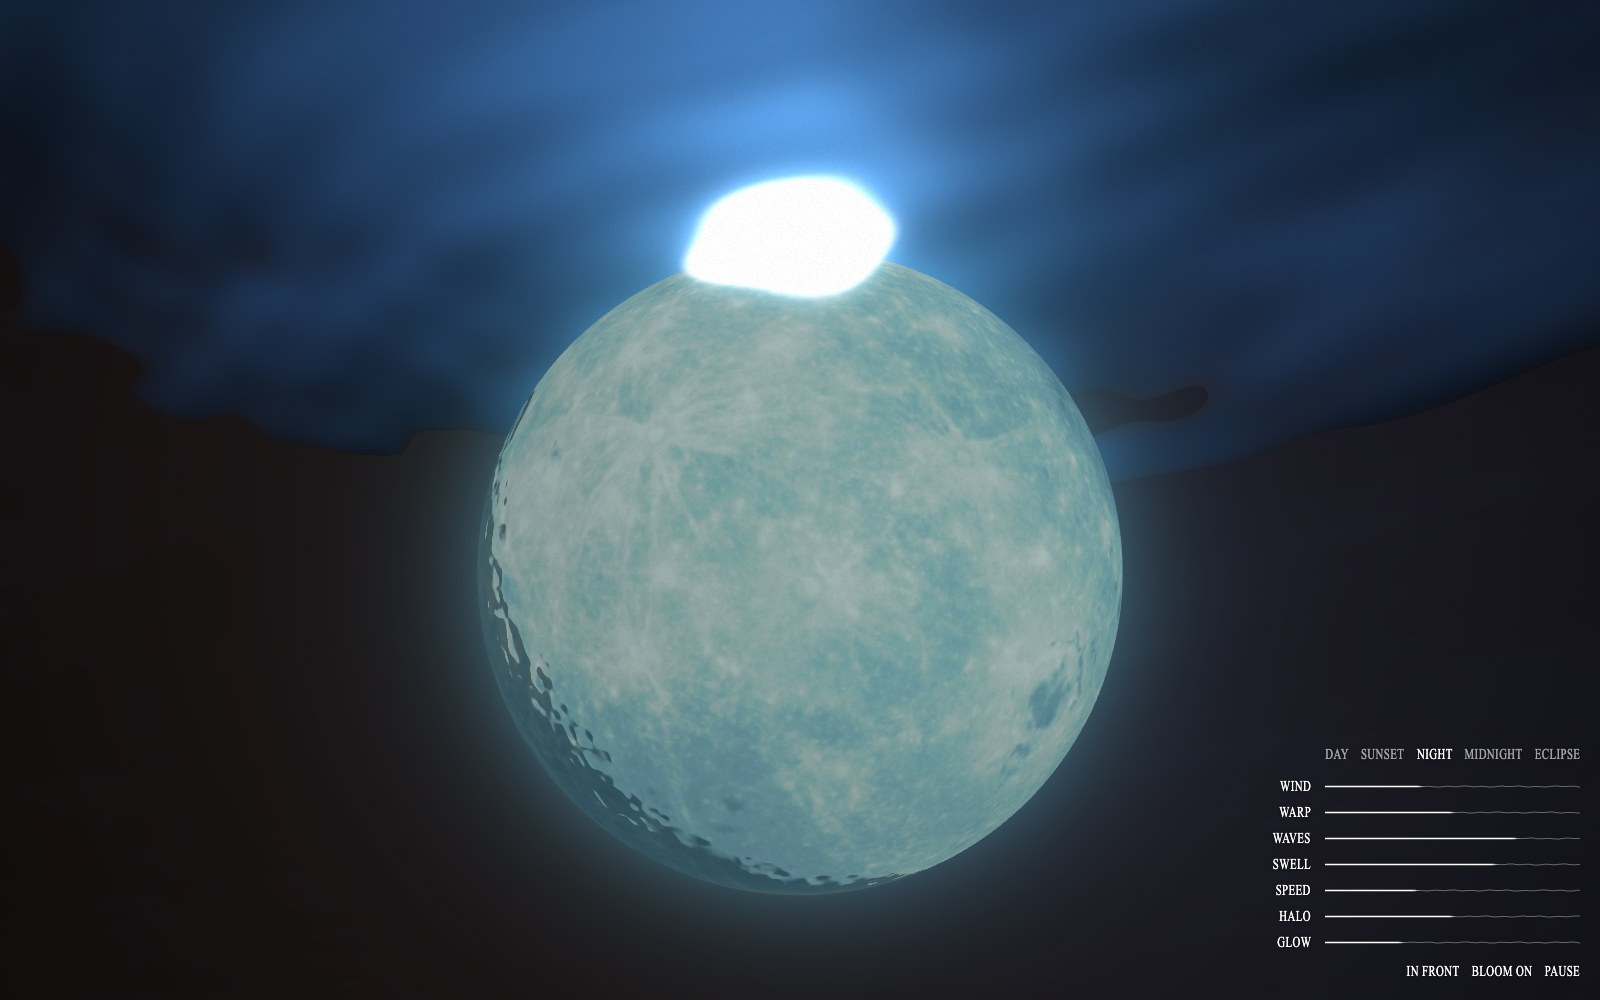
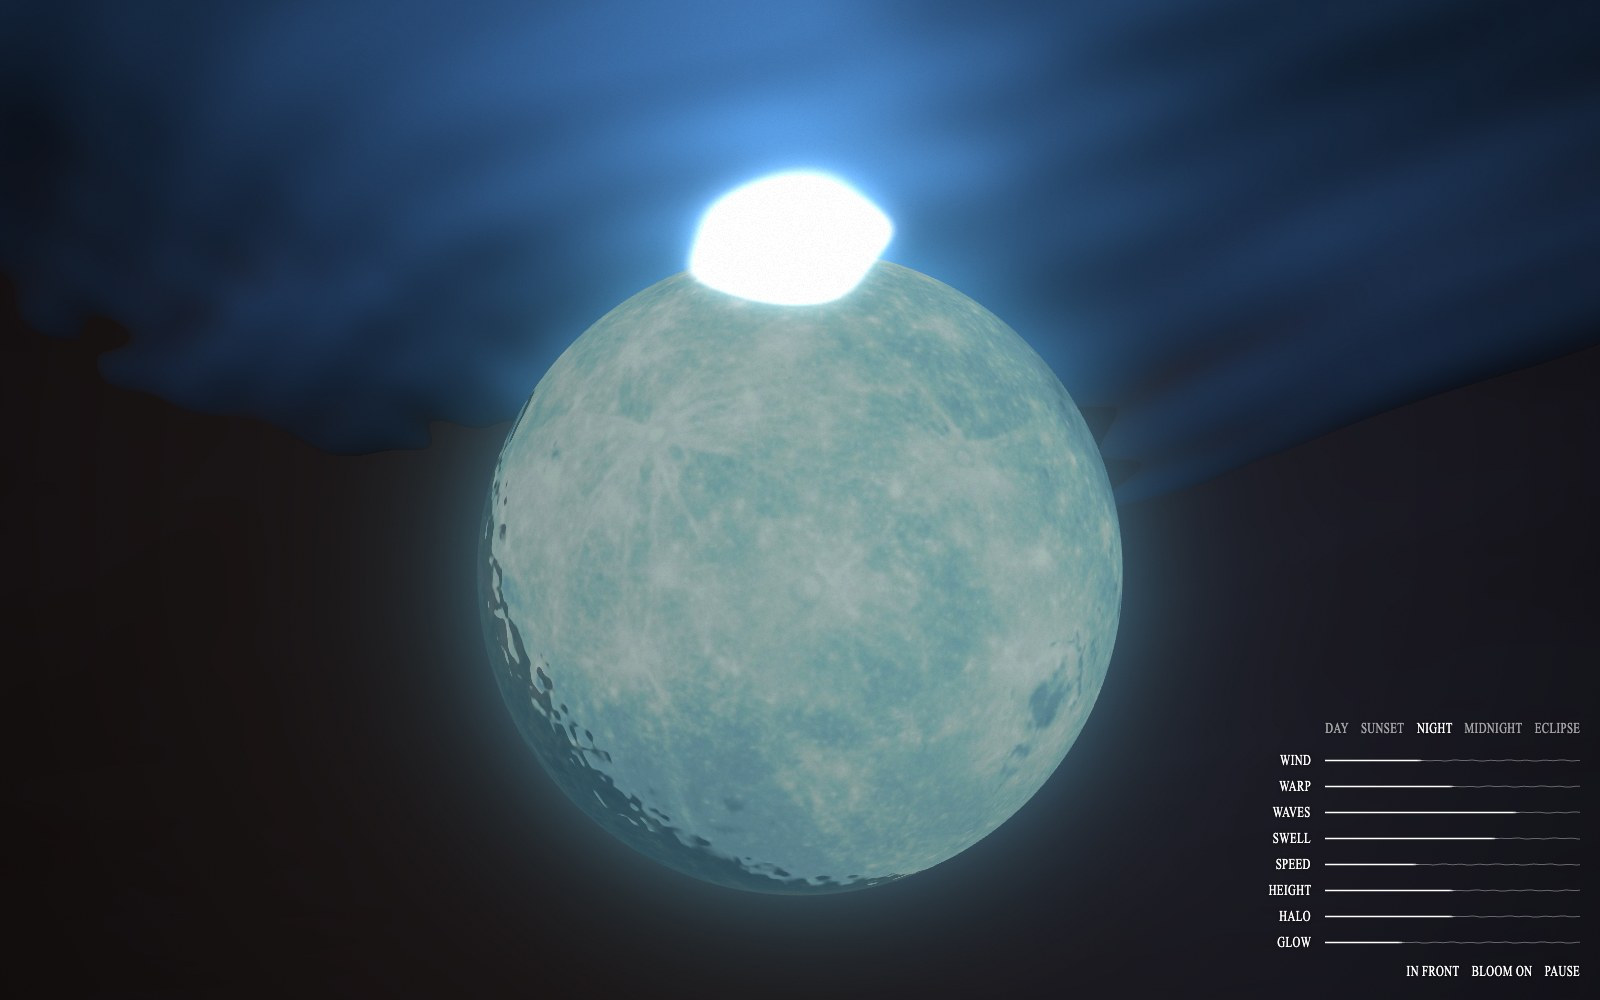
Height control for the moon
Raises or lowers the moon in the water or in the sky. README screenshots
refreshed, one added.

diff --git a/public/games/flymetothemoon/index.html b/public/games/flymetothemoon/index.html
@@ -64,6 +64,7 @@
   <label for="chop"><span class="squeeze">Waves</span></label><div class="line"><canvas aria-hidden="true"></canvas><input id="chop" type="range" min="0" max="1.2" step="0.01" value="0.9"></div>
   <label for="swell"><span class="squeeze">Swell</span></label><div class="line"><canvas aria-hidden="true"></canvas><input id="swell" type="range" min="0" max="1.2" step="0.01" value="0.8"></div>
   <label for="speed"><span class="squeeze">Speed</span></label><div class="line"><canvas aria-hidden="true"></canvas><input id="speed" type="range" min="0.1" max="1.5" step="0.01" value="0.6"></div>
+  <label for="height"><span class="squeeze">Height</span></label><div class="line"><canvas aria-hidden="true"></canvas><input id="height" type="range" min="-1" max="1" step="0.01" value="0"></div>
   <label for="halo"><span class="squeeze">Halo</span></label><div class="line"><canvas aria-hidden="true"></canvas><input id="halo" type="range" min="0" max="2" step="0.01" value="1"></div>
   <label for="glow"><span class="squeeze">Glow</span></label><div class="line"><canvas aria-hidden="true"></canvas><input id="glow" type="range" min="0" max="2" step="0.01" value="0.6"></div>
   <div class="buttons">
@@ -678,6 +679,7 @@
   document.getElementById('chop').addEventListener('input', e => uniforms.uChop.value = parseFloat(e.target.value));
   document.getElementById('swell').addEventListener('input', e => uniforms.uSwell.value = parseFloat(e.target.value));
   document.getElementById('speed').addEventListener('input', e => waveSpeed = parseFloat(e.target.value));
+  document.getElementById('height').addEventListener('input', e => moonHeight = parseFloat(e.target.value));
   document.getElementById('halo').addEventListener('input', e => uniforms.uHaloGain.value = parseFloat(e.target.value));
   document.getElementById('glow').addEventListener('input', e => glowU.value = parseFloat(e.target.value));
   let bloomOn = true;
@@ -735,7 +737,7 @@
   }
 
   const clock = new THREE.Clock();
-  let t = 0, wt = 0, simBudget = 0, aboveT = 0, aboveTo = 0;
+  let t = 0, wt = 0, simBudget = 0, aboveT = 0, aboveTo = 0, moonHeight = 0;
   let waveSpeed = 0.6;
   function frame() {
     const dt = Math.min(clock.getDelta(), 0.05);
@@ -765,7 +767,7 @@
     if (aboveT !== aboveTo) aboveT = reduceMotion ? aboveTo : Math.max(0, Math.min(1, aboveT + Math.sign(aboveTo - aboveT) * dt/1.4));
     const up = aboveT*aboveT*(3 - 2*aboveT);
     uniforms.uAbove.value = up;
-    moonGroup.position.y = -0.5 + 3.34*up + Math.sin(t * 0.3) * 0.05;
+    moonGroup.position.y = -0.5 + 3.34*up + moonHeight*2.4 + Math.sin(t * 0.3) * 0.05;
     moonGroup.scale.setScalar(1 - 0.38*up);
     updateMoonScreen();
 
@@ -915,7 +917,7 @@
 
   // Settings from the address, e.g. ?sky=sunset&waves=1.2&swell=1.2&speed=0.3&bloom=0&turn=90&ui=0
   const q = new URLSearchParams(location.search);
-  for (const [key, id] of [['wind','wind'], ['warp','warp'], ['waves','chop'], ['swell','swell'], ['speed','speed'], ['halo','halo'], ['glow','glow']]) {
+  for (const [key, id] of [['wind','wind'], ['warp','warp'], ['waves','chop'], ['swell','swell'], ['speed','speed'], ['height','height'], ['halo','halo'], ['glow','glow']]) {
     if (q.has(key)) { const el = document.getElementById(id); el.value = q.get(key); el.dispatchEvent(new Event('input')); }
   }
   if (q.has('sky')) {

diff --git a/README.md b/README.md
@@ -62,6 +62,10 @@ The **In front** button sends the moon up behind the surface (it then reads **Be
 
 ![The moon behind the water by day](docs/screenshots/19-moon-behind-day.jpg)
 
+The **Height** line raises or lowers the moon, in the water or in the sky. Lowered behind the surface, it sinks into the waterline and is cut off where the window ends.
+
+![The moon raised](docs/screenshots/20-height.jpg)
+
 ### The sky
 
 Five sky presets, at the top of the controls, set the time of day. Every colour in the scene comes from one palette: the water on both sides, the light falling from above, the sky seen through the surface and the glow around the moon in it, the reflection and its bloom, the halo, and the moon's own tint, shadow and crater relief. Pressing a preset fades every colour across to the new look over about a second.
@@ -104,6 +108,7 @@ The controls sit in the lower right: the sky presets along the top, then plain w
 | Waves | Strength of the broad wind sea | 0 – 1.2 | 0.9 |
 | Swell | Strength of the long swells | 0 – 1.2 | 0.8 |
 | Speed | How fast all the water moves (also slows the simulation) | 0.1 – 1.5 | 0.6 |
+| Height | Raises or lowers the moon, in the water or in the sky | −1 – 1 | 0 |
 | Halo | Strength of the glow around the big moon (on top of what the sky sets) | 0 – 2 | 1 |
 | Glow | Strength of the bloom | 0 – 2 | 0.6 |
 | In front / Behind | Moon in the water, or up in the sky behind the surface | | In front |
@@ -123,6 +128,7 @@ Every control can be set from the address, which is how the screenshots here wer
 ?wind=1.2&waves=1.2&swell=1.2     rough water
 ?speed=0.3                        slow motion
 ?moon=behind                      start with the moon behind the water
+?height=1                         raise the moon (−1 lowers it)
 ?halo=0                           no glow around the moon
 ?bloom=0                          bloom off
 ?turn=140                         turn the moon 140° to start
